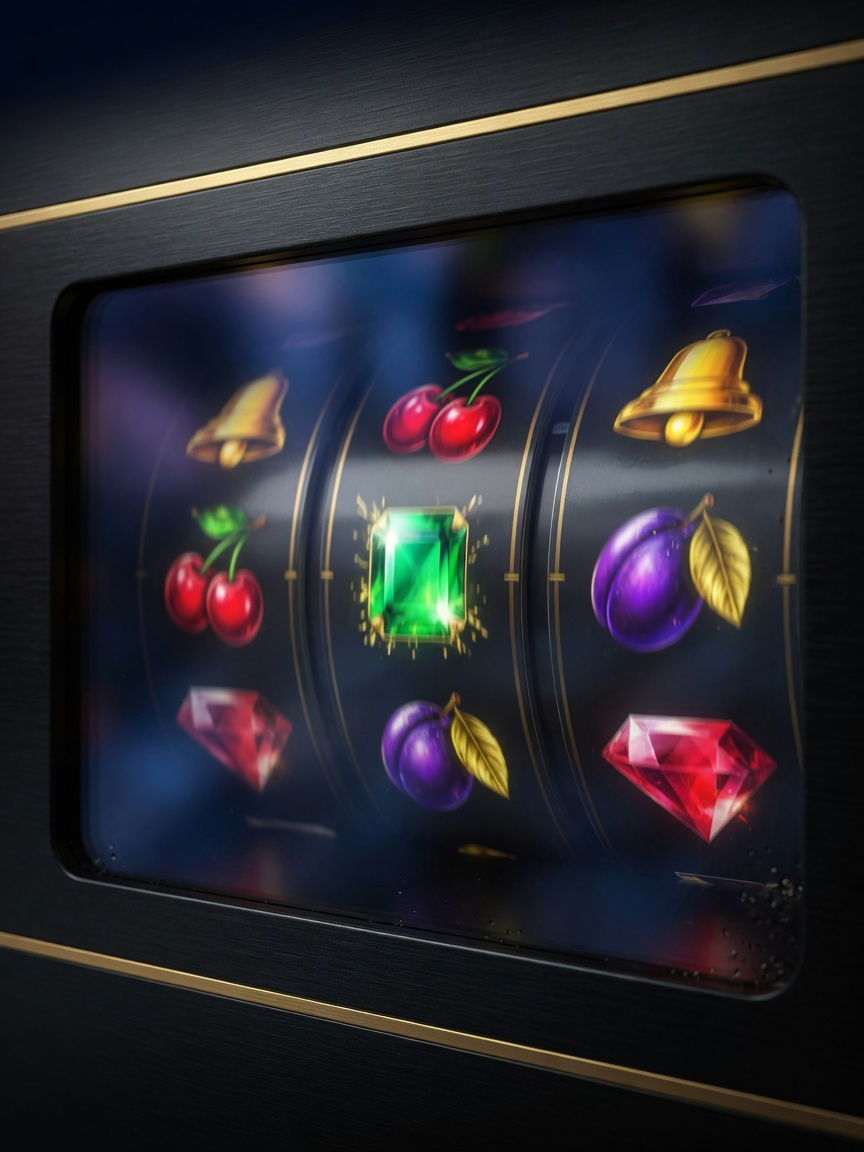
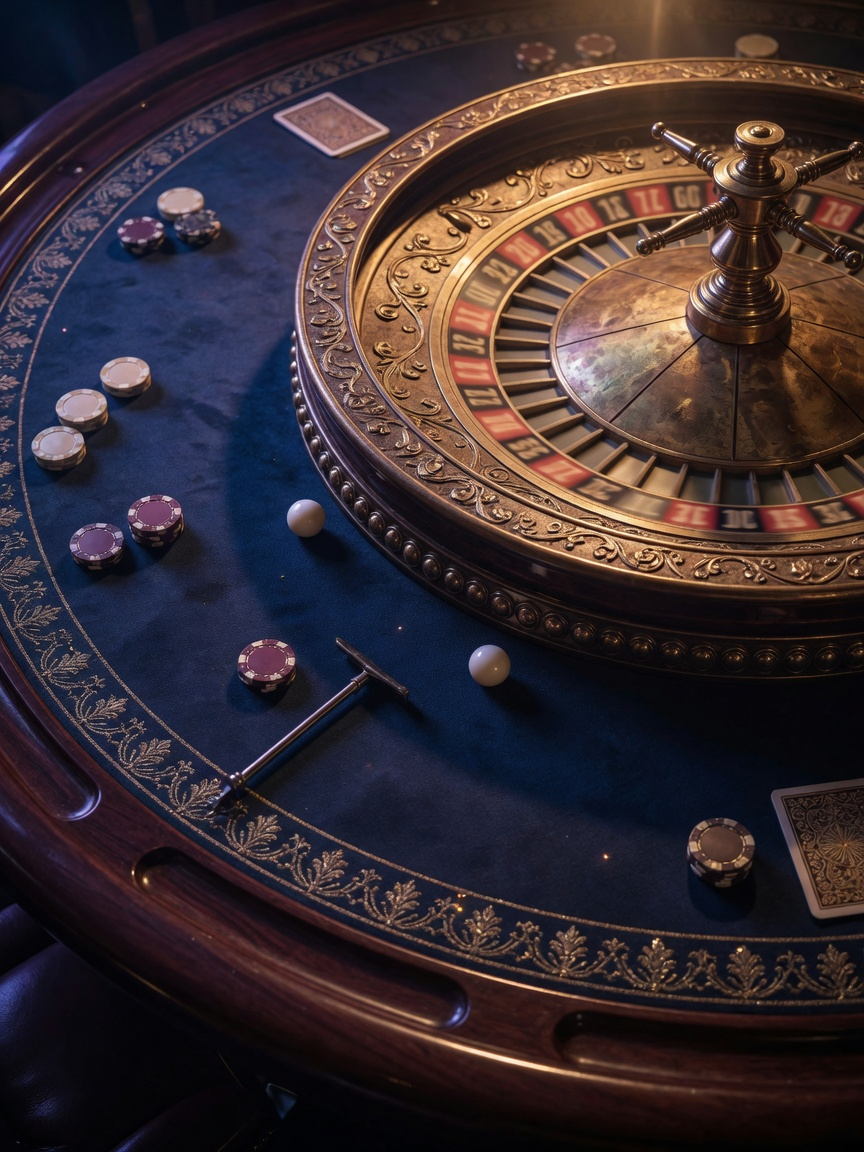
feat: add casino, sports, VIP, and promotions pages with corresponding components and game assets

diff --git a/apps/web/src/components/games/update_plinko.py b/apps/web/src/components/games/update_plinko.py
@@ -1,0 +1,73 @@
+import os
+
+file_path = r'c:\Users\novra\Desktop\vladfsBET\apps\web\src\components\games\plinko-game.tsx'
+
+def replace_content():
+    with open(file_path, 'r', encoding='utf-8') as f:
+        content = f.read()
+
+    # 1. Update Refs
+    old_refs = """
+  const ballsRef = useRef<Ball[]>([]);
+  const pegsRef = useRef<Peg[]>([]);
+  const layoutRef = useRef<BoardLayout>(plinkoLayout(680, 520, 16));
+  const animIdRef = useRef<number | null>(null);
+"""
+    new_refs = """
+  const ballsRef = useRef<Ball[]>([]);
+  const pegsRef = useRef<Peg[]>([]);
+  const particlesRef = useRef<Particle[]>([]);
+  const shockwavesRef = useRef<Shockwave[]>([]);
+  const layoutRef = useRef<BoardLayout>(plinkoLayout(680, 520, 16));
+  const animIdRef = useRef<number | null>(null);
+"""
+    
+    if old_refs in content:
+        content = content.replace(old_refs, new_refs)
+    else:
+        # Try to find it with slightly different spacing/newlines if needed
+        # This is a fallback but usually not needed if the content matches exactly
+        pass
+
+    # 2. Add Helper Functions (before toggleMute)
+    # We'll look for the line 'const multipliers = getPlinkoMultipliers(rows, risk);'
+    # and insert the functions after it.
+    
+    helpers = """
+  const createParticles = (x: number, y: number, count: number, color: string) => {
+    for (let i = 0; i < count; i++) {
+      particlesRef.current.push({
+        x,
+        y,
+        vx: (Math.random() - 0.5) * 12,
+        vy: (Math.random() - 0.5) * 12,
+        life: 1.0,
+        color,
+        size: Math.random() * 3 + 1,
+      });
+    }
+  };
+
+  const createShockwave = (x: number, y: number) => {
+    shockwavesRef.current.push({
+      x,
+      y,
+      radius: 0,
+      maxRadius: 40,
+      life: 1.0,
+    });
+  };
+"""
+    
+    if "const multipliers = getPlinkoMultipliers(rows, risk);" in content:
+        content = content.replace(
+            "const multipliers = getPlinkoMultipliers(rows, risk);",
+            f"const multipliers = getPlinkoMultipliers(rows, risk);\n{helpers}"
+        )
+
+    with open(file_path, 'w', encoding='utf-8') as f:
+        f.write(content)
+    print("Success: File updated.")
+
+if __name__ == "__main__":
+    replace_content()
